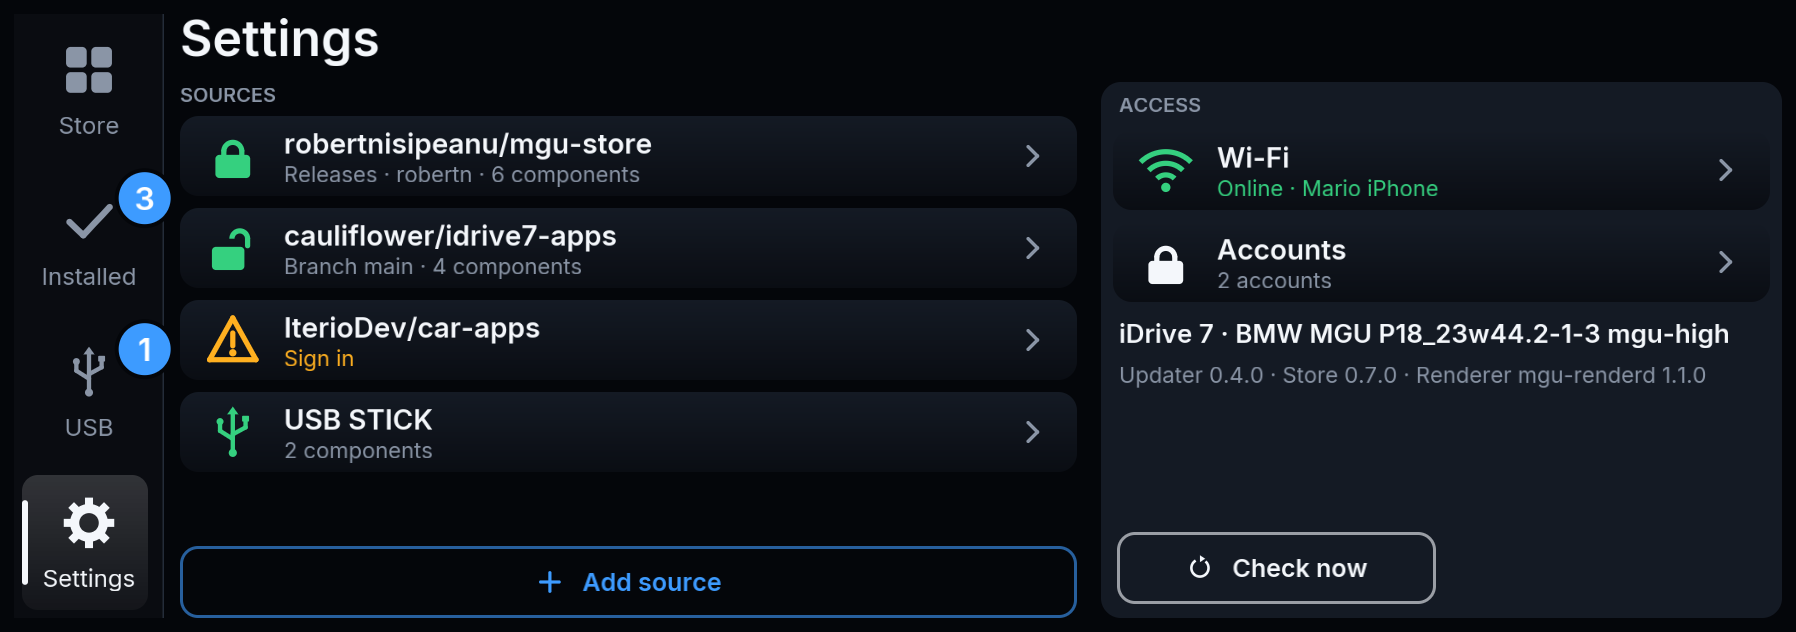
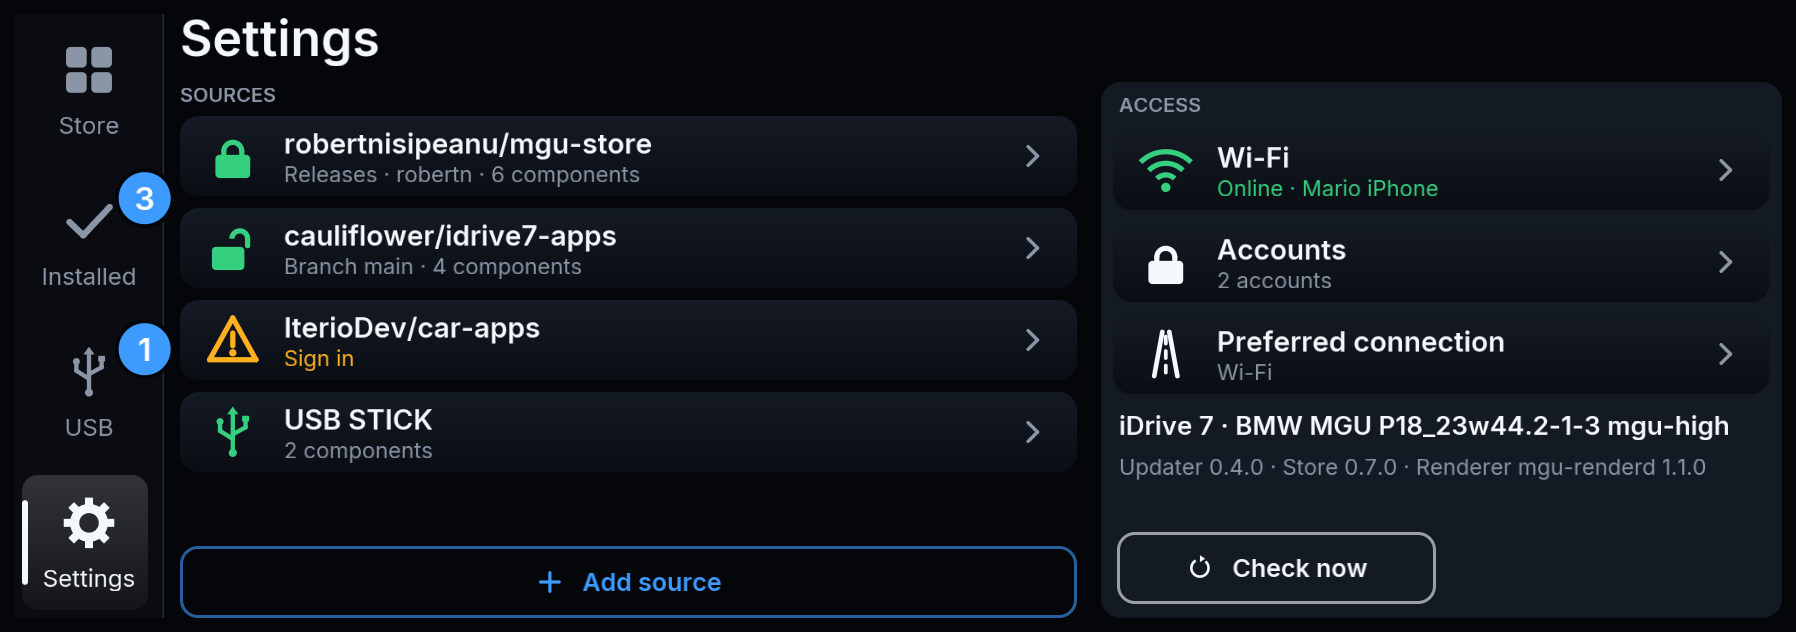
robertn_store 0.9.30: changelog for the Access card; PR screenshots against the released Store

Changed region(s): [[0.6236, 0.5111, 0.9666, 0.6313], [0.6236, 0.7215, 0.9666, 0.7516], [0.6236, 0.6614, 0.9666, 0.6915]]

diff --git a/apps/robertn_store/robertn_store@0.9.30/CHANGELOG.md b/apps/robertn_store/robertn_store@0.9.30/CHANGELOG.md
@@ -3,7 +3,10 @@
 ## 0.9.30
 
 **Preferred connection** is a row in Settings, below Accounts, showing the
-connection tried first; it opens the Preferred connection page. The page
+connection tried first; it opens the Preferred connection page. The
+Access card shows Wi-Fi, Accounts and Preferred connection at once: on
+iDrive 7 the head unit and version lines sit below them, on iDrive 8 in
+the card's header beside ACCESS. The page
 has **Phone over USB**, a switch for whether the uplink uses phones
 plugged in over USB (mgu-uplink 0.7.7, through mgu-updater 0.8.32); off,
 a plugged-in phone keeps playing audio and is not asked to trust the car.
